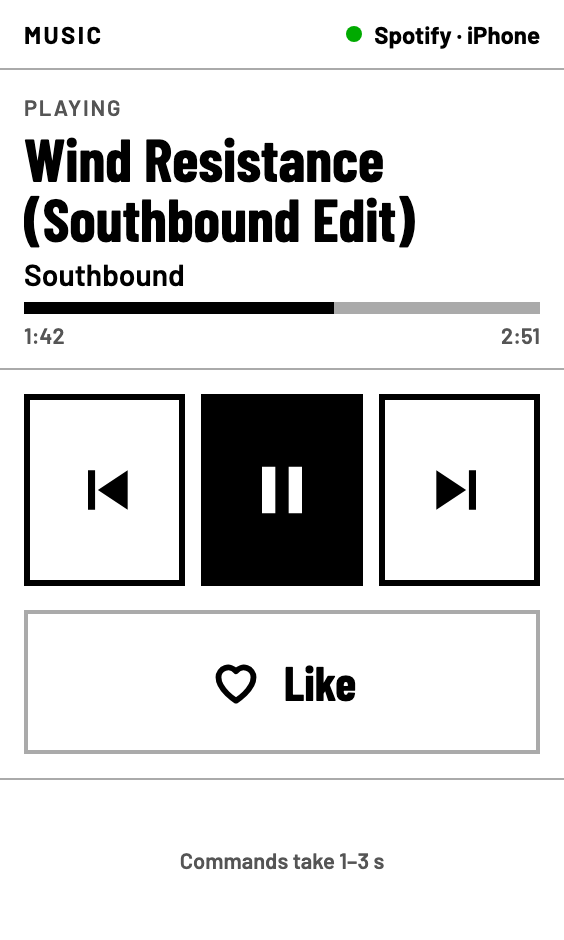
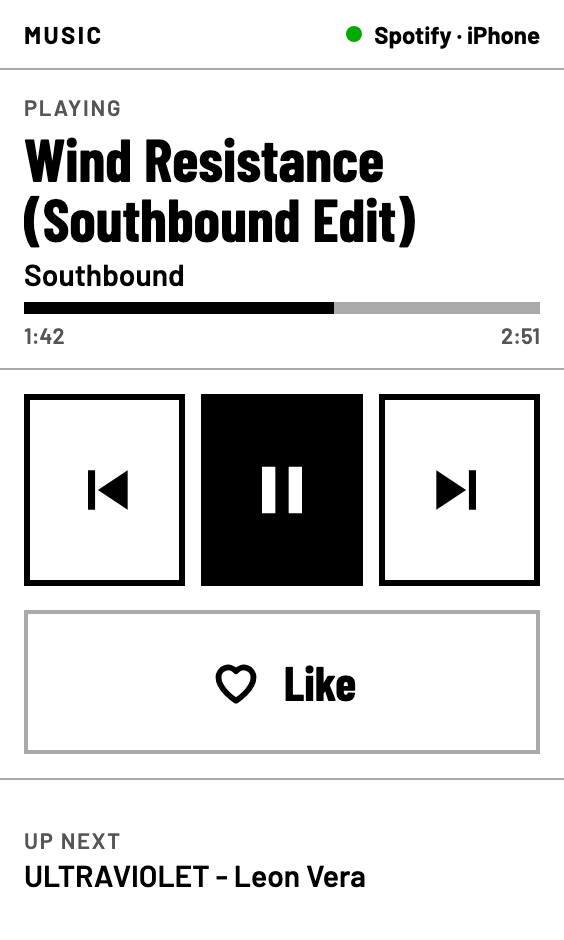
docs: new screen pictures (5 s gel alert, 30 g, route fuel, up next, - bell)

Changed region(s): [[0.0301, 0.8638, 0.6933, 0.9564]]

diff --git a/README.md b/README.md
@@ -5,7 +5,7 @@ the "Edge 1030 Plus Interface" canvas on claude.ai.
 
 ![The four screens: Fuel + Zone ride page, gel alert, Ride Brief and Music widgets](docs/overview.png)
 
-_Renders of the design canvas (282 x 470, the Edge 1030 Plus screen), with sample data. Single screens in [`docs/`](docs/)._
+_Renders of the design canvas (282 x 470, the Edge 1030 Plus screen), with sample data, rendered with headless Edge/Chrome and the canvas's own runtime. Single screens in [`docs/`](docs/)._
 
 | App | Type | Status |
 |---|---|---|
